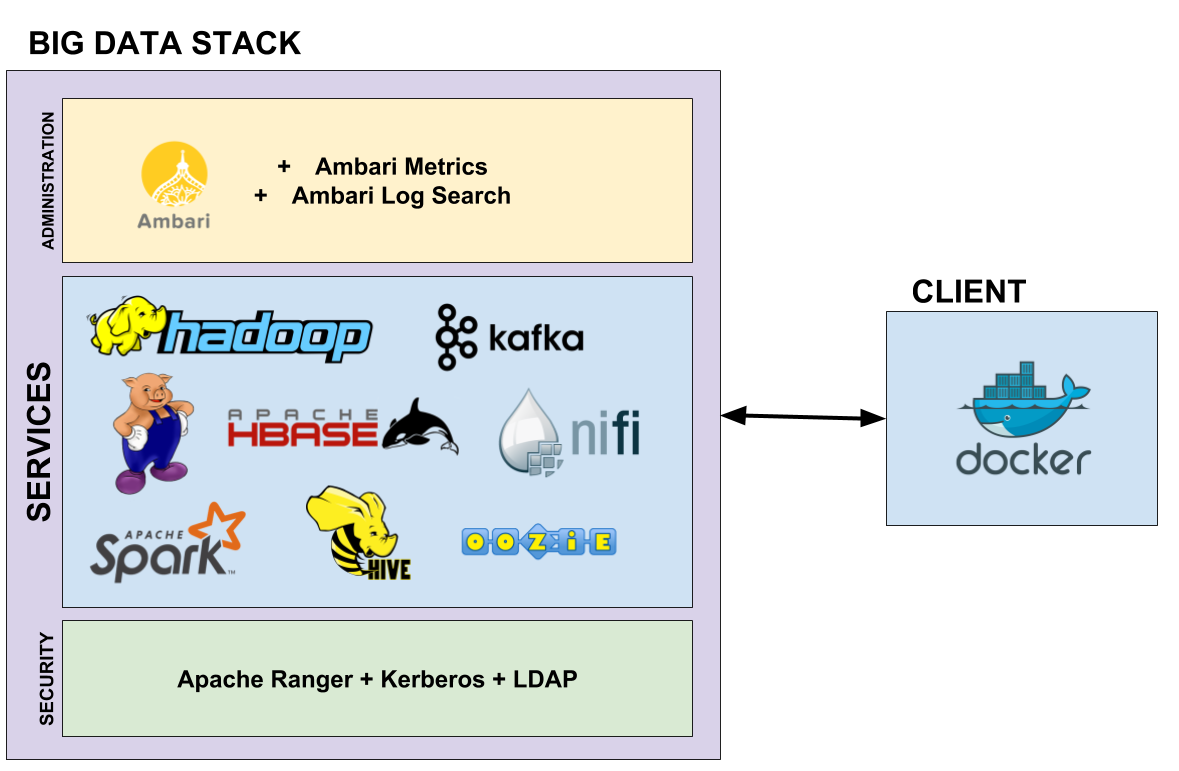
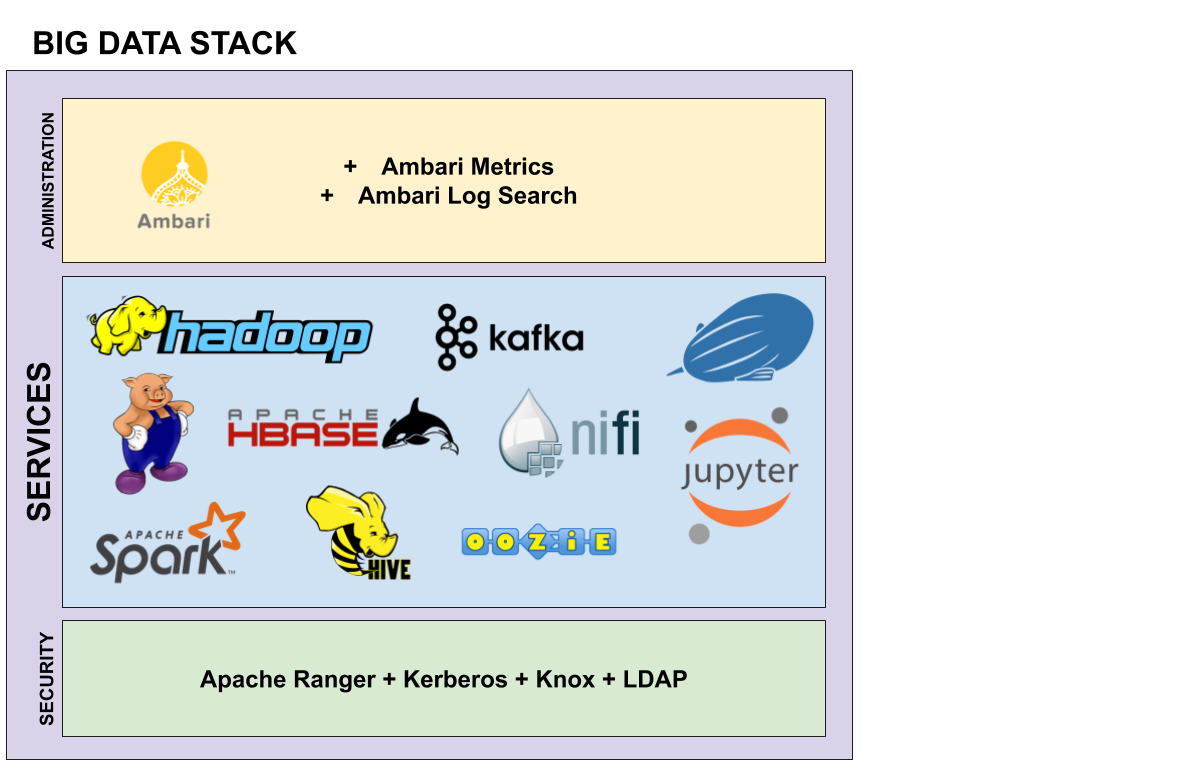
Adapted introduction to call2 setup

diff --git a/source/big-data-stack/architecture.rst b/source/big-data-stack/architecture.rst
@@ -1,8 +1,9 @@
 EDI's Big Data Stack architecture
 =================================
 
-EDI Big Data Stack leverages on Hortonworks HDP 2.6.5 Hadoop distribution. The
-data storage leverages on `Hadoop Distributed File System (HDFS) <http://hadoop.apache.org/docs/stable/hadoop-project-dist/hadoop-hdfs/HdfsDesign.html>`_.
+EDI Big Data Stack leverages on Hortonworks HDP 3.0.0 Hadoop distribution. The
+data storage leverages on `Hadoop Distributed File System (HDFS) <http://hadoop.
+apache.org/docs/stable/hadoop-project-dist/hadoop-hdfs/HdfsDesign.html>`_.
 HDFS is a
 distributed file system designed to be used in conjunction with MapReduce jobs.
 HDFS is highly fault-tolerant and it is designed to be deployed on low-cost
@@ -13,7 +14,8 @@ by a factor of three.
 
 .. image:: img/stack-architecture.png
 
-`YARN (Yet Another Resource Negotiator) <http://hadoop.apache.org/docs/stable/hadoop-yarn/hadoop-yarn-site/YARN.html, 2018>`_
+`YARN (Yet Another Resource Negotiator) <http://hadoop.apache.org/docs/stable/
+hadoop-yarn/hadoop-yarn-site/YARN.html, 2018>`_
 is deployed on top of the
 distributed file system delivered by HDFS. YARN provides resource management
 and a central platform in which other services can execute their operations. A
@@ -22,65 +24,96 @@ different Nodemanagers. Usually, a worker node on a Hadoop deployment has the
 HDFS Datanode and YARN Nodemanager roles assigned.
 
 On top of YARN, different services are offered to the sub-grantees.
-`MapReduce <http://hadoop.apache.org/docs/stable/hadoop-mapreduce-client/hadoop-mapreduce-client-core/MapReduceTutorial.html>`_
+`MapReduce <http://hadoop.apache.org/docs/stable/hadoop-mapreduce-client/
+hadoop-mapreduce-client-core/MapReduceTutorial.html>`_
 is the original framework for processing large amount of data
 stored at HDFS. MapReduce splits data into key-value pairs that are processed
 in parallel, taking advantage of the aggregation of the processing capacity of
 all worker nodes.
 
-YARN opened Hadoop to other data processing engines, being `Spark <https://spark.apache.org/>`_ one of those.
+YARN opened Hadoop to other data processing engines, being
+`Spark <https://spark.apache.org/>`_ one of those.
 Spark is an in-memory data processing engine for executing streaming, machine
 learning or SQL workloads that require fast iterative access to datasets. Spark
 consists of Spark Core, a set of libraries (MLlib for
-machine learning, Spark SQL, Spark Streaming and GraphX for graph processing) and a set of APIs for
+machine learning, Spark SQL, Spark Streaming and GraphX for graph processing)
+and a set of APIs for
 developing applications in different languages like Scala, Java, Python and R.
 
-Another processing engine running over YARN is `Hive <https://hive.apache.org/>`_.
-Hive allows executing SQL queries over
-petabytes of data in Hadoop. In addition, Hive enables allows creating databases and tables over
-different types of data stored in HDFS like CSV, Sequence or JSON files. On the other hand,
-`Pig <https://pig.apache.org/>`_ is a
-scripting platform that eases the processing of large datasets, implementing multiple typical MapReduce
-operations, avoiding user coding them.
+Another processing engine running over YARN is
+`Hive <https://hive.apache.org/>`_. Hive allows executing SQL queries over
+petabytes of data in Hadoop. In addition, Hive enables allows creating
+databases and tables over different types of data stored in HDFS like CSV,
+Sequence or JSON files. On the other hand, `Pig <https://pig.apache.org/>`_ is a
+scripting platform that eases the processing of large datasets, implementing
+multiple typical MapReduce operations, avoiding user coding them.
 
-`HBase <https://hbase.apache.org/>`_ is a NoSQL database engine running on top of YARN and HDFS. HBase is designed for
-handling billions of rows and millions of columns. An HBase deployment consists on a single HBase
-Master and a set of RegionServers managing data regions stored on HDFS.
+`HBase <https://hbase.apache.org/>`_ is a NoSQL database engine running on top
+of YARN and HDFS. HBase is designed for handling billions of rows and millions
+of columns. An HBase deployment consists on a single HBase Master and a set of
+RegionServers managing data regions stored on HDFS.
 
-`Kafka <https://kafka.apache.org/>`_ is a scalable, fault-tolerant messaging system used to replace traditional message brokers like
-JMS and AMQP because of higher throughput, reliability and replication. In the same way of those
-traditional systems, Kafka relies on message producers, message consumers and topics.
+`Kafka <https://kafka.apache.org/>`_ is a scalable, fault-tolerant messaging
+system used to replace traditional message brokers like JMS and AMQP because
+of higher throughput, reliability and replication. In the same way of those
+traditional systems, Kafka relies on message producers, message consumers and
+topics.
 
-For orchestrating those services, two frameworks are offered by the Big Data Stack. The first of them,
-`Oozie <http://oozie.apache.org/>`_, provides job scheduling over the cluster, allowing launching jobs from different nature
-thanks to a previously designed workflow with the shape of a direct acyclic graph. On the other hand,
-`NiFi <https://nifi.apache.org/>`_ automates the movement of data between different systems of the cluster, and even outside
-the cluster. In a similar way to Oozie, NiFi allows creating a conditional workflow for processing data
-through different systems. Although NiFi is not provided by default by Hortonworks HDP, it is accessible
-thanks to the Hortonworks HDF and HDP integration.
+For orchestrating those services, two frameworks are offered by the Big Data
+Stack. The first of them, `Oozie <http://oozie.apache.org/>`_, provides job
+scheduling over the cluster, allowing launching jobs from different nature
+thanks to a previously designed workflow with the shape of a direct acyclic
+graph. On the other hand, `NiFi <https://nifi.apache.org/>`_ automates the
+movement of data between different systems of the cluster, and even outside the
+cluster. In a similar way to Oozie, NiFi allows creating a conditional workflow
+for processing data through different systems. Although NiFi is not provided by
+default by Hortonworks HDP, it is accessible thanks to the Hortonworks HDF and
+HDP integration.
 
-Due the shared nature of the computation environment, in which different sub-grantees will share
-storage and computation resources, the security is a key asset for the Big Data Stack. The secure access
-to every resource in the cluster must be guaranteed, including files stored in HDFS, Hive and HBase
-databases, Kafka topics, and NiFi workflows. For achieving those security challenges, a combination of
-Kerberos, OpenLDAP and Apache Ranger is used in the Big Data Stack.
+At last, but not least, we offer different services for interacting with those
+services: `Jupyter Notebook <https://jupyter.org/>`,
+`Apache Zeppelin <https://zeppelin.apache.org/>`_ and Ambari Views. All your
+interactions with the Big Data Stack must be done through those services that
+are accesible from your preferred web browser. Jupyter Notebook (accessible at
+`<https://jupyter.edincubator.eu>`_) provides an isolated work environment in
+which each user can launch jobs at the Big Data Stack through its CLI terminal
+and interact with different services through its kernels. In a similar way,
+Apache Zeppelin (accesible at `<https://zeppelin.edincubator.eu>`_) allows
+creating interactive notebooks using technologies like Spark or Hive. On the
+other hand, Ambari Views (`<https://ambari.edincubator.eu>`_) allow accessing
+to services like WebHDFS, Pig and Hive editors and Oozie visual workflow
+manager.
 
-`Kerberos <https://web.mit.edu/kerberos/>`_ is an authentication protocol for client/server applications by using secret-key
-cryptography. Ambari uses Kerberos to avoid identity impersonation inside de cluster, avoiding non-
-authenticated users accessing to its resources. As explained in :ref:`authenticating-with-kerberos`, a client must authenticate
-itself using the kinit command and insert her Kerberos principal (username@realm) and password. As
-Kerberos is limited to the command line interface (CLI), an `OpenLDAP <https://www.openldap.org/,>`_ service is used as Kerberos
-backend for storing user credentials. As Ambari allows synchronizing its users with the ones at an
-LDAP/AD directory, a user can access to both CLI tools and web-based tools with the same username
-and password.
+Due the shared nature of the computation environment, in which different
+sub-grantees will share storage and computation resources, the security is a
+key asset for the Big Data Stack. The secure access to every resource in the
+cluster must be guaranteed, including files stored in HDFS, Hive and HBase
+databases, Kafka topics, and NiFi workflows. For achieving those security
+challenges, a combination of Kerberos, OpenLDAP and Apache Ranger is used in
+the Big Data Stack.
 
-For managing authorization, the platform provides `Apache Ranger <https://ranger.apache.org/,>`_. Apache Ranger is centralized
-security framework that allows establishing fine-grained authorization policies for multiple components
-from Hadoop ecosystem. Ranger allows granting access to different user or groups of users, at different
-permission levels like read, write, update, create, drop, alter, index, and other operations, depending on
+`Kerberos <https://web.mit.edu/kerberos/>`_ is an authentication protocol for
+client/server applications by using secret-key cryptography. Ambari uses
+Kerberos to avoid identity impersonation inside de cluster, avoiding
+non-authenticated users accessing to its resources. As explained in
+:ref:`authenticating-with-kerberos`, a client must authenticate itself using
+the kinit command and insert her Kerberos principal (username@realm) and
+provided keytab. As Kerberos is limited to the command line interface (CLI), an
+`OpenLDAP <https://www.openldap.org/,>`_ service is used as Kerberos backend
+for storing user credentials. As Ambari allows synchronizing its users with the
+ones at an LDAP/AD directory, a user can access to both CLI tools and web-based
+tools with the same username and password.
+
+For managing authorization, the platform provides
+`Apache Ranger <https://ranger.apache.org/,>`_. Apache Ranger is centralized
+security framework that allows establishing fine-grained authorization policies
+for multiple components from Hadoop ecosystem. Ranger allows granting access to
+different user or groups of users, at different permission levels like read,
+write, update, create, drop, alter, index, and other operations, depending on
 the component.
 
-For learning how to interact with the Big Data Stack, check :ref:`basicconcepts`.
+For learning how to interact with the Big Data Stack, check
+:ref:`basicconcepts`.
 
 
 .. _tools-and-versions:
@@ -93,50 +126,40 @@ In the following table versions of the different tools of the stack are shown:
 +-----------+---------+
 | Tool      | Version |
 +===========+=========+
-| Hadoop    | 2.7.3   |
+| Hadoop    | 3.1.0   |
 +-----------+---------+
-| Tez       | 0.7.0   |
+| Tez       | 0.9.1   |
 +-----------+---------+
-| Hive      | 1.2.1   |
+| Hive      | 3.1.0   |
 +-----------+---------+
-| HBase     | 1.1.2   |
+| HBase     | 2.0.0   |
 +-----------+---------+
 | Pig       | 0.16.0  |
 +-----------+---------+
-| Oozie     | 4.2.0   |
+| Oozie     | 4.3.1   |
 +-----------+---------+
-| Kafka     | 1.0.0   |
+| Kafka     | 1.0.1   |
 +-----------+---------+
-| Ranger    | 0.7.0   |
+| Ranger    | 1.1.0   |
 +-----------+---------+
-| Spark2    | 2.3.0   |
+| Spark2    | 2.3.1   |
 +-----------+---------+
-| NiFi      | 1.5.0   |
-+-----------+---------+
-| Slider    | 0.92.0  |
-+-----------+---------+
+
 
 Cluster URLs
 ------------
 
 The following table shows useful URLs in the cluster:
 
-+-----------+--------------------+-------------------------------------------------------------------+
-| Tool      | Component          | URL                                                               |
-+===========+====================+===================================================================+
-| HDFS      | Namenode           | master.edincubator.eu:8020                                        |
-+-----------+--------------------+-------------------------------------------------------------------+
-| YARN      | Resourcemanager UI | master.edincubator.eu:8088/cluster                                |
-+-----------+--------------------+-------------------------------------------------------------------+
-| Hive2     | HiveServer2        | master.edincubator.eu:10000                                       |
-+-----------+--------------------+-------------------------------------------------------------------+
-| Ambari    | Ambari Dashboard   | https://manager.edincubator.eu:8443                               |
-+-----------+--------------------+-------------------------------------------------------------------+
-| Kafka     | Brokers            | master.edincubator.eu:6667,worker[1-4].edincubator.eu:6667        |
-+-----------+--------------------+-------------------------------------------------------------------+
-| Zookeeper | Servers            | master.edincubator.eu:2181,worker[1-4].edincubator.eu:6667        |
-+-----------+--------------------+-------------------------------------------------------------------+
-| Oozie     | Server             | master.edincubator.eu:11000                                       |
-+-----------+--------------------+-------------------------------------------------------------------+
-| NiFi      | Web UI             | master.edincubator.eu:9091/nifi                                   |
-+-----------+--------------------+-------------------------------------------------------------------+
++-----------+--------------------------------------+
+| Tool      | URL                                  |
++===========+======================================+
+| Ambari    | `<https://ambari.edincubator.eu>`_   |
++-----------+--------------------------------------+
+| NiFi      | `<https://nifi.edincubator.eu>`_     |
++-----------+--------------------------------------+
+| Jupyter   | `<https://jupyter.edincubator.eu>`_  |
+| Notebook  |                                      |
++-----------+--------------------------------------+
+| Zeppelin  | `<https://zeppelin.edincubator.eu>`_ |
++-----------+--------------------------------------+
